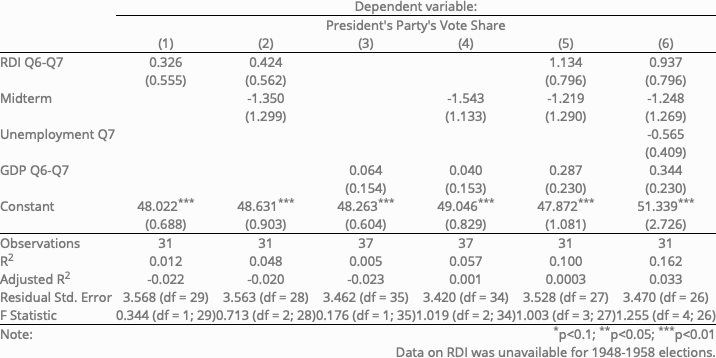
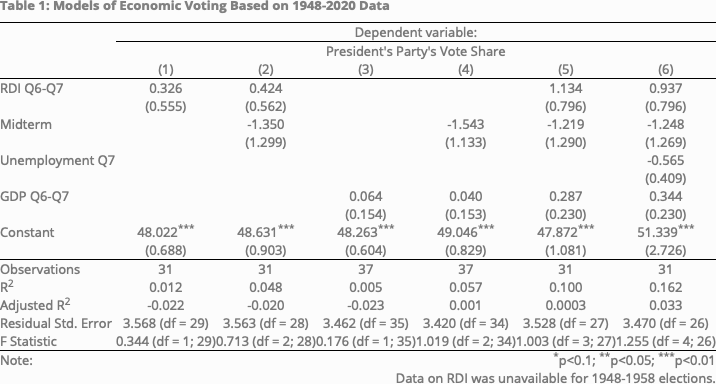
embed table 1 & 2

diff --git a/content/posts/02-economy/index.html b/content/posts/02-economy/index.html
@@ -7,20 +7,10 @@ output: html_document
 
 
 
-<div class="figure" style="text-align: center">
-<img src="static/posts/02-economy/table1.png" alt="Models of Economic Voting Based on 1948-2020 Data" width="100%" />
-<p class="caption">
-(#fig:table 1)Models of Economic Voting Based on 1948-2020 Data
-</p>
-</div>
-<pre class="r"><code>blogdown::build_dir(&quot;static&quot;)</code></pre>
-<div class="figure">
-<img src="table1.png" alt="" />
-<p class="caption">Scenario 1: Across columns</p>
-</div>
+<p><img src="table1.png" /></p>
 <table style="text-align:center">
 <caption>
-<strong>Models of Economic Voting Based on 1948-2018 Data</strong>
+<strong>Table 2: Models of Economic Voting Based on 1948-2018 Data</strong>
 </caption>
 <tr>
 <td colspan="7" style="border-bottom: 1px solid black">
@@ -292,3 +282,5 @@ Data on RDI was unavailable for 1948-1958 elections.
 </td>
 </tr>
 </table>
+<p><img src="static/posts/02-economy/table2.png" /><!-- --></p>
+<p><img src="table2.png" /></p>
